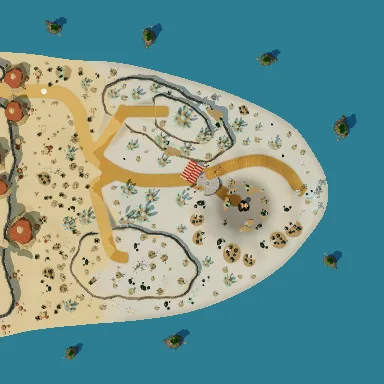
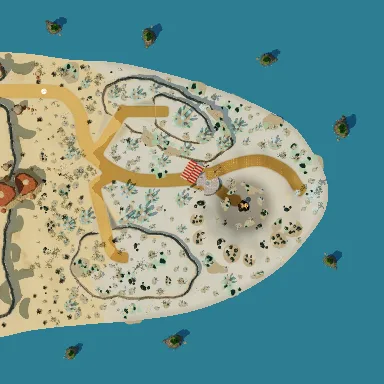
The southern sands, finished: denser fields, glass sand over the cape, the rope bridge walkable
The salt dunes redder and fuller (dunes, rocks, scrub, beach drift; no grass on the salt works);
the glass desert's cape under a ground of silver glass sand that thins to the desert's gold toward
its way in, a deeper crater ringed by its thrown-out rock, a thicket of glass spires, glints of
glass everywhere; in the waterfall gorge the rope bridge walkable from end to end (only the
gorge's mouth closed), the stelae off the track, the pyramid's solids its own size. The kit's
sample filled out, the falls' mist and the meteorite's smoke lighter. Pictures retaken.

Claude-Session: https://claude.ai/code/session_01EoAgD4nUuveX489aYfu2wP

diff --git a/src/world3d/kits/southsands.ts b/src/world3d/kits/southsands.ts
@@ -57,7 +57,7 @@ defineMaterial("Southsands_GlassCore", { tint: "#6fd0d8", rough: 0.1, opacity: 0
 defineMaterial("Southsands_GlassGreen", { tint: "#8fc6a2", rough: 0.08, metal: 0.1, opacity: 0.78 });
 defineMaterial("Southsands_GlassDark", { tint: "#26403c", rough: 0.12, metal: 0.2 });
 defineMaterial("Southsands_GlassLeaf", { tint: "#b9f4ff", rough: 0.05, opacity: 0.7, glow: "#8fe8ff", glowI: 0.5 });
-defineMaterial("Southsands_Fused", { map: "crag", tint: "#c4a77c", bump: 2 });
+defineMaterial("Southsands_Fused", { map: "crag", tint: "#d0c0a0", bump: 2 });
 defineMaterial("Southsands_CliffGlass", { map: "crag", tint: "#a89f90", bump: 4 }); // the glass cape's cliffs (fused sand)
 defineMaterial("Southsands_Meteor", { map: "crag", tint: "#3b302c", bump: 4 });
 defineMaterial("Southsands_Scorch", { map: "crag", tint: "#4c423b", bump: 3 });
@@ -1077,27 +1077,43 @@ function stepPyramid(): Geo {
 // ================================================================== the kit
 
 function sample(put: Put): void {
-  // the inner sea's shore along -Y: the trader wrecked on the sand, a rowing boat drawn up, a
-  // fisherman's hut and his net rack; the salt pans and heaps behind the beach, the spring under
-  // its palms, red dunes; the glass cape's spires and its fallen star at the back
-  put("sail_wreck", [-500, -1700, 0], 20, 0.55);
-  put("beached_boat", [900, -1900, 0], 120);
-  put("fisher_hut", [1200, -700, 0], 0, 0.9);
-  put("net_rack", [400, -800, 0], 10);
-  put("salt_pans", [-900, 300, 0], 0);
-  put("salt_heap", [-1500, 1300, 0], 30);
-  put("salt_flat", [-300, 1200, 0], 0, 0.6);
-  put("cow_skull", [600, 600, 0], 40);
-  put("cow_skull", [-1900, -900, 0], 200, 0.8);
-  put("spring_pool", [1400, 900, 0], 0);
-  for (const [x, y, h] of [[1700, 1250, 20], [1150, 1300, 100], [1750, 600, 200]]) put("flora:Palm", [x, y, 0], h, 0.9);
-  put("red_dune", [-1500, 2000, 0], 200);
-  put("red_dune", [1900, 2000, 0], 160, 0.7);
-  put("glass_spires", [400, 2000, 0], 0, 0.6);
-  put("glass_shard", [1100, 2000, 0], 40);
-  put("meteorite", [-400, 2000, 0], 0, 0.5);
-  put("fulgurite", [-1900, 600, 0], 0);
-  put("glass_crust", [300, 1500, 0], 0, 0.6);
+  // the inner sea's shore along -Y: the trader wrecked on the sand, rowing boats drawn up, two
+  // fishermen's huts and their nets; behind the beach the salt works (pans, flats, heaps), the
+  // spring under its palms, red dunes with skulls and scrub; at the back the glass cape's spires,
+  // its fallen star and lightning tubes
+  put("sail_wreck", [-900, -2000, 0], 20, 0.6);
+  put("beached_boat", [700, -1900, 0], 120);
+  put("beached_boat", [1300, -1750, 0], 150, 0.9);
+  put("fisher_hut", [1300, -700, 0], -90, 0.9);
+  put("fisher_hut", [-200, -800, 0], -100, 0.85);
+  put("net_rack", [550, -1100, 0], 0);
+  put("net_rack", [1900, -1300, 0], 80, 0.85);
+  put("common:crate", [900, -450, 0], 20);
+  put("common:crate", [960, -380, 0], 60);
+  put("salt_pans", [-1200, 500, 0], 10);
+  put("salt_flat", [-300, 700, 0], 30, 0.55);
+  put("salt_heap", [-1700, -300, 0], 30, 0.8);
+  put("salt_heap", [-600, 1250, 0], 160, 0.6);
+  put("cow_skull", [400, 300, 0], 40);
+  put("cow_skull", [-1900, -1300, 0], 200, 0.8);
+  put("cow_skull", [1700, 1000, 0], 120, 0.9);
+  put("spring_pool", [1200, 700, 0], 0);
+  for (const [x, y, h, s] of [[1550, 1050, 20, 0.9], [900, 1100, 100, 0.8], [1600, 350, 200, 0.85], [-700, -1700, 300, 0.8], [1800, -500, 40, 0.75], [100, -1650, 140, 0.8]])
+    put(h > 150 ? "flora:PalmBent" : "flora:Palm", [x, y, 0], h, s);
+  put("red_dune", [-1700, 1900, 0], 200, 0.8);
+  put("red_dune", [1900, 1900, 0], 160, 0.6);
+  put("red_dune", [200, 2100, 0], 190, 0.5);
+  for (const [x, y] of [[-900, -300], [600, 600], [-1900, 1000], [1900, 300], [-300, 1700], [300, -300]]) put("flora:Bush", [x, y, 0], x, 0.5);
+  for (const [x, y] of [[-1500, 1500], [2000, 1400], [700, 1700]]) put("flora:CactusRound", [x, y, 0], y, 0.8);
+  put("glass_spires", [-200, 2100, 0], 0, 0.55);
+  put("glass_shard", [800, 1950, 0], 40);
+  put("glass_shard", [-1100, 2000, 0], 200, 0.8);
+  put("meteorite", [1500, 2050, 0], 0, 0.45);
+  put("fulgurite", [-2000, 400, 0], 0, 0.8);
+  put("glass_crust", [-1000, 1500, 0], 0, 0.5);
+  put("scorched_rock", [2050, 1800, 0], 30, 0.6);
+  put("common:rock_small", [-1300, -1200, 0], 20);
+  put("common:rock_small", [1700, -1100, 0], 80);
 }
 
 export const KIT: Kit = {

diff --git a/src/world3d/field_glass_desert.ts b/src/world3d/field_glass_desert.ts
@@ -123,7 +123,7 @@ export function build(_quality: { flowers: number }): Town {
   const GLASS_IN: XY[] = [];
   for (let x = -A; x <= A; x += 150) GLASS_IN.push([x, glassLine(x)]);
   const glass = buildPaved({
-    area: { x0: -A, x1: A, y0: -A, y1: 6000 }, roads, plazas: [], cell: 80, base: "snow", tint: "#e9e2d0", track: true, road: [0.86, 0.82, 0.76],
+    area: { x0: -A, x1: A, y0: -A, y1: 6000 }, roads, plazas: [], cell: 80, base: "snow", tint: "#e9e2d0", track: true, road: [0.8, 0.79, 0.76],
     water: [[...GLASS_IN, [A + 600, A + 600], [-A - 600, A + 600]], SEA],
     height: (x, y) => f.h(x, y) + 3,
     place: (x, y, cell) => {
@@ -261,8 +261,8 @@ export function build(_quality: { flowers: number }): Town {
   }
   scatter(["southsands:glass_shard"], 10, { x0: FOREST[0] - 1300, x1: FOREST[0] + 1300, y0: FOREST[1] - 1600, y1: FOREST[1] + 1600 }, 140, { s: [0.7, 1.1], solid: [{ kind: "crystal", x: 0, y: 0, r: 60 }] });
   scatter(["southsands:glass_spires"], 14, IN, 300, { s: [0.45, 0.85], solid: SPIRES(0.65), keep: (x, y) => !nearExit(x, y) && !inCrater(x, y) && goldW(y) < 0.5 && f.h(x, y) < 300 });
-  scatter(["southsands:glass_shard"], 40, IN, 150, { s: [0.6, 1.1], solid: [{ kind: "crystal", x: 0, y: 0, r: 60 }], keep: (x, y) => !nearExit(x, y) && goldW(y) < 0.7 });
-  scatter(["southsands:glass_crust"], 22, IN, 300, { s: [0.5, 0.95], solid: "none", keep: (_x, y) => goldW(y) < 0.6 });
+  scatter(["southsands:glass_shard"], 70, IN, 120, { s: [0.6, 1.1], solid: [{ kind: "crystal", x: 0, y: 0, r: 60 }], keep: (x, y) => !nearExit(x, y) && goldW(y) < 0.7 });
+  scatter(["southsands:glass_crust"], 20, IN, 240, { s: [0.45, 0.9], solid: "none", keep: (_x, y) => goldW(y) < 0.6 });
   scatter(["southsands:fulgurite"], 10, IN, 160, { s: [0.7, 1], solid: [{ kind: "rock", x: 0, y: 0, r: 100 }], keep: (_x, y) => goldW(y) < 0.6 });
   scatter(["southsands:scorched_rock", "volcanic:obsidian", "southsands:ejecta_rocks"], 16, IN, 180, { s: [0.5, 0.9], solid: [{ kind: "rock", x: 0, y: 0, r: 110 }], keep: (x, y) => !nearExit(x, y) });
   scatter(["southsands:glass_tree"], 4, IN, 200, { s: [0.7, 0.95], solid: [{ kind: "tree", x: 0, y: 0, r: 35 }], keep: (x, y) => !nearExit(x, y) && goldW(y) < 0.3 && !inCrater(x, y) });
@@ -273,7 +273,9 @@ export function build(_quality: { flowers: number }): Town {
   scatter(["desert:bones", "southsands:cow_skull"], 6, IN, 140, { solid: "none" });
   scatter(["desert:dry_bush", "desert:dead_tree"], 10, IN, 110, { s: [0.7, 1.1], keep: (_x, y) => rnd() < goldW(y) + 0.1 });
   const grassOut = (x: number, y: number) => nearTrack(x, y, 60) || wet(x, y, 200) || !f.level(x, y, 90) || taken.some(([tx, ty, tr]) => Math.hypot(tx - x, ty - y) < tr * 0.8);
-  f.woods({ x0: -R, x1: R, y0: 2500, y1: R }, ["grass_tuft", "grass_tuft", "dry_bush"], (x, y) => grassOut(x, y) || rnd() > goldW(y) + 0.15, { count: 70, tries: 2500, spacing: 380, kit: "desert" });
+  f.woods({ x0: -R, x1: R, y0: 2000, y1: R }, ["grass_tuft", "grass_tuft", "dry_bush", "grass_patch"], (x, y) => grassOut(x, y) || rnd() > goldW(y) + 0.2, { count: 130, tries: 4000, spacing: 320, kit: "desert" });
+  // and over the glass sand, glints of glass and black beads of fused sand
+  f.woods({ x0: -R, x1: R, y0: -R, y1: R }, ["glass_shard", "glass_shard", "glass_crust"], (x, y) => grassOut(x, y) || nearTrack(x, y, 420) || goldW(y) > 0.5 || inCrater(x, y), { count: 50, tries: 3000, spacing: 500, kit: "southsands" });
 
   // ---- past the edges: the desert's dunes, rocks and buttes on the mesa wall and before it, glass
   // and rock out along the coast ----
@@ -284,7 +286,7 @@ export function build(_quality: { flowers: number }): Town {
   // ---- monsters: the cape's sand, the crater's floor and rim, the mesa and its summit, the ridge,
   // the tip ----
   const busy = (x: number, y: number) => Math.hypot(x - CAMP[0], y - CAMP[1]) < 800 || Math.hypot(x - CRATER[0], y - CRATER[1]) < 450;
-  f.monsterSpots(ground, IN, { step: 620, keepOut: busy, max: 50 });
+  f.monsterSpots(ground, IN, { step: 520, keepOut: busy, max: 50 });
 
   // ---- people ----
   const npcs: NpcSpec[] = [

diff --git a/src/world3d/field_waterfall_gorge.ts b/src/world3d/field_waterfall_gorge.ts
@@ -165,7 +165,8 @@ export function build(quality: { flowers: number }): Town {
   f.blockBand(RIVER.filter((p) => Math.abs(p[1]) < R + 700), RW - 60, { gaps: [PLANK], gapR: 200, step: 140 });
   f.blockDisc([-200, -1450], 470);
   for (let i = 0; i < POOL.length; i += 2) f.blockDisc([-200 + (POOL[i][0] + 200) * 0.85, -1450 + (POOL[i][1] + 1450) * 0.85], 160);
-  f.blockBand([[(S_EDGE + N_EDGE) / 2, -2050], [(S_EDGE + N_EDGE) / 2, -3900]], N_EDGE - S_EDGE - 60, { step: 200 });
+  // (the gorge itself needs none past its mouth: its walls are cliffs, and the rope bridge over it is walked)
+  f.blockBand([[S_EDGE + 40, -2250], [N_EDGE - 40, -2250]], 360, { step: 200 });
   for (const [m, c, r] of [[MUD[0], [-4700, 1700], 460], [MUD[1], [-4950, 3500], 380], [MUD[2], [-4300, 4700], 330]] as [Poly, XY, number][]) {
     f.blockDisc(c, r, "mud");
     for (let i = 0; i < m.length; i += 2) f.blockDisc([c[0] + (m[i][0] - c[0]) * 0.86, c[1] + (m[i][1] - c[1]) * 0.86], 150, "mud");
@@ -250,7 +251,8 @@ export function build(quality: { flowers: number }): Town {
   // ---- the pyramid on its step, the court before its stair, stelae and fallen blocks ----
   put("southsands:step_pyramid", PYRAMID, -90, {
     s: 0.75, r: 900,
-    solid: [box(1360, 1360, 0, 0, "temple"), box(300, 260, 0, -820, "temple"), { kind: "statue", x: -175, y: -820, r: 50 }, { kind: "statue", x: 175, y: -820, r: 50 }],
+    // (in its own frame: the tiers, the foot of the stair standing out in front, the serpents' heads)
+    solid: [box(1780, 1780, 0, 0, "temple"), box(280, 540, -1030, 0, "temple"), { kind: "statue", x: -1220, y: -215, r: 60 }, { kind: "statue", x: -1220, y: 215, r: 60 }],
   });
   put("southsands:carved_stela", [PYRAMID[0] - 400, PYRAMID[1] + 1300], -90, { solid: [box(110, 130, 0, 0, "statue")], r: 140 });
   put("southsands:carved_stela", [PYRAMID[0] + 600, PYRAMID[1] + 1300], -90, { solid: [box(110, 130, 0, 0, "statue")], r: 140 });
@@ -267,7 +269,7 @@ export function build(quality: { flowers: number }): Town {
   for (const [dx, dy, s] of [[700, 500, 1], [-500, 650, 0.8], [900, -300, 0.9]] as number[][]) put("southsands:rafflesia_bloom", [STELAE[0] + dx, STELAE[1] + dy], rnd() * 360, { s, solid: [disc(110 * s, 0, 0, "plant")], r: 200 * s });
 
   // ---- the gorge's walls: vines hanging over the edges of the tableland and the headland ----
-  for (const [x, y, h] of [[860, 300, -175], [700, -500, -160], [380, -1250, -160], [N_EDGE + 30, -2500, 180], [N_EDGE + 30, -3400, 180], [S_EDGE - 30, -2500, 0], [S_EDGE - 30, -3400, 0], [960, 1600, -180], [880, 2900, -175]] as [number, number, number][])
+  for (const [x, y, h] of [[860, 300, -175], [700, -500, -160], [460, -1050, -160], [N_EDGE + 30, -2500, 180], [N_EDGE + 30, -3400, 180], [S_EDGE - 30, -2500, 0], [S_EDGE - 30, -3400, 0], [960, 1600, -180], [880, 2900, -175]] as [number, number, number][])
     f.put("southsands:cliff_vines", [x, y], h + 180, { solid: "none" });
 
   // ---- the jungle floor: rafflesias in bloom, fallen logs, stumps, mossy boulders; the mud pools

diff --git a/src/world3d/field_salt_dunes.ts b/src/world3d/field_salt_dunes.ts
@@ -229,10 +229,10 @@ export function build(_quality: { flowers: number }): Town {
   // salters' shelter (a sail over sacks of salt), a cart to carry it ----
   for (const [x, y, s, h] of [[-1150, -2900, 0.9, 20], [-200, -3500, 0.6, 70], [-1300, -1900, 0.7, 120]] as number[][]) {
     f.put("southsands:salt_flat", [x, y], h, { s, solid: "none" });
-    taken.push([x, y, 640 * s]);
+    taken.push([x, y, 820 * s]);
   }
-  prop("southsands:salt_pans", [650, -3150], 25, 450, { solid: "none" });
-  prop("southsands:salt_pans", [-450, -2250], 70, 450, { solid: "none" });
+  prop("southsands:salt_pans", [650, -3150], 25, 560, { solid: "none" });
+  prop("southsands:salt_pans", [-450, -2250], 70, 560, { solid: "none" });
   prop("southsands:salt_heap", [-100, -1650], 30, 260, ring(150, "heap"));
   prop("southsands:salt_heap", [1150, -3000], 110, 240, { s: 0.85, ...ring(130, "heap") });
   prop("southsands:salt_heap", [-1900, -2500], 200, 220, { s: 0.8, ...ring(120, "heap") });
@@ -299,7 +299,7 @@ export function build(_quality: { flowers: number }): Town {
   // what the sea leaves on the beach: driftwood, timbers off the wreck, skulls the crabs left behind
   scatter(["jungle:wreck_debris", "desert:fallen_log", "southsands:cow_skull"], 14, IN, 160, { s: [0.6, 1], solid: "none", keep: (x, y) => toLine(x, y, SHORE) < 650 });
   // beach grass on the dunes behind the beach, dry tufts everywhere else
-  const grassOut = (x: number, y: number) => nearTrack(x, y, 60) || wet(x, y, 200) || !f.level(x, y, 90) || taken.some(([tx, ty, tr]) => Math.hypot(tx - x, ty - y) < tr * 0.8);
+  const grassOut = (x: number, y: number) => nearTrack(x, y, 60) || wet(x, y, 200) || !f.level(x, y, 90) || taken.some(([tx, ty, tr]) => Math.hypot(tx - x, ty - y) < (tr > 500 ? tr : tr * 0.8));
   f.woods({ x0: -R, x1: R, y0: -R, y1: R }, ["grass_tuft", "grass_tuft", "grass_patch"], (x, y) => grassOut(x, y) || toLine(x, y, SHORE) > 1600, { count: 160, tries: 4000, spacing: 280, kit: "desert" });
   f.woods({ x0: -R, x1: R, y0: -R, y1: R }, ["grass_tuft", "dry_bush", "grass_patch"], grassOut, { count: 170, tries: 5000, spacing: 420, kit: "desert" });
 
